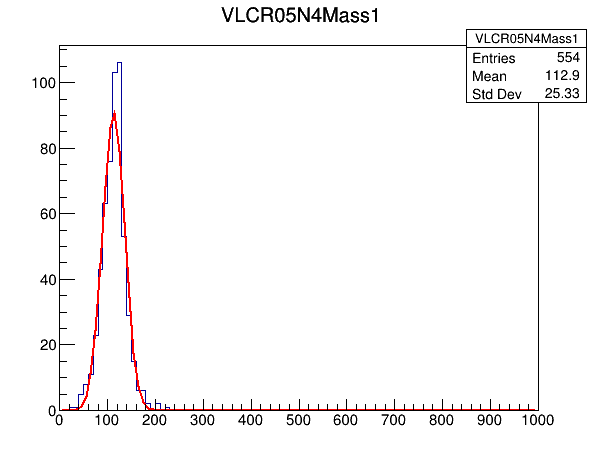
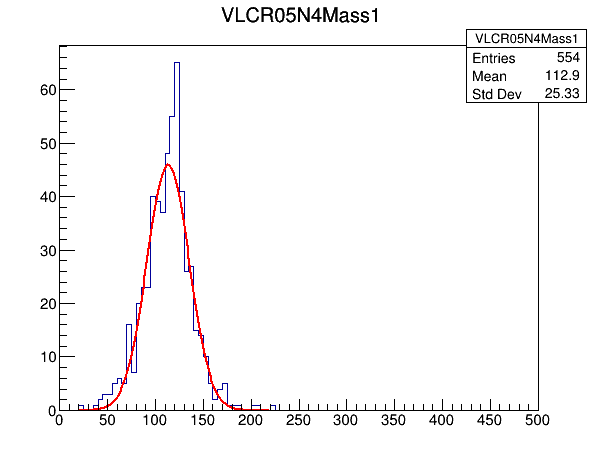
Update fit of invariant mass under truth matching

diff --git a/Delphes/src/AnalyzeM.C b/Delphes/src/AnalyzeM.C
@@ -45,8 +45,8 @@ void AnalyzeM(const char *inputFile, const char *outputFile){
 
      Int_t nEntries = tree_sig->GetEntries();
 
-     TH1D *VLCR05N4Mass1 = new TH1D("VLCR05N4Mass1", "VLCR05N4Mass1", 100 , 0, 1000); 
-     TH1D *VLCR05N4Mass2 = new TH1D("VLCR05N4Mass2", "VLCR05N4Mass2", 100 , 0, 1000); 
+     TH1D *VLCR05N4Mass1 = new TH1D("VLCR05N4Mass1", "VLCR05N4Mass1", 100 , 0, 500); 
+     TH1D *VLCR05N4Mass2 = new TH1D("VLCR05N4Mass2", "VLCR05N4Mass2", 100 , 0, 500); 
 
      Double_t VLC1eta;
      Double_t VLC1phi;
@@ -189,13 +189,13 @@ void AnalyzeM(const char *inputFile, const char *outputFile){
 	     cout << "the second jet pair in the "<<entry<< "th event failed check."<<endl;	 
          }
      }
-     TF1 *jetpair1gausfit = new TF1("jetpair1gausfit", "gaus",50,200);
-     TF1 *jetpair2gausfit = new TF1("jetpair2gausfit", "gaus",0,300);
+     TF1 *jetpair1gausfit = new TF1("jetpair1gausfit", "gaus",20,220);
+     TF1 *jetpair2gausfit = new TF1("jetpair2gausfit", "gaus",0,140);
      
      TCanvas *mycanvas = new TCanvas("mycanvas","My Canvas",200,10,600,480);
-     VLCR05N4Mass1->Fit("jetpair1gausfit");
+     VLCR05N4Mass1->Fit("jetpair1gausfit","R");
      mycanvas->SaveAs("VLCR05N4pair1Mass.png");
-     VLCR05N4Mass2->Fit("jetpair2gausfit");
+     VLCR05N4Mass2->Fit("jetpair2gausfit","R");
      mycanvas->SaveAs("VLCR05N4pair2Mass.png");
      VLCR05N4Mass1->Write();
      VLCR05N4Mass2->Write();
